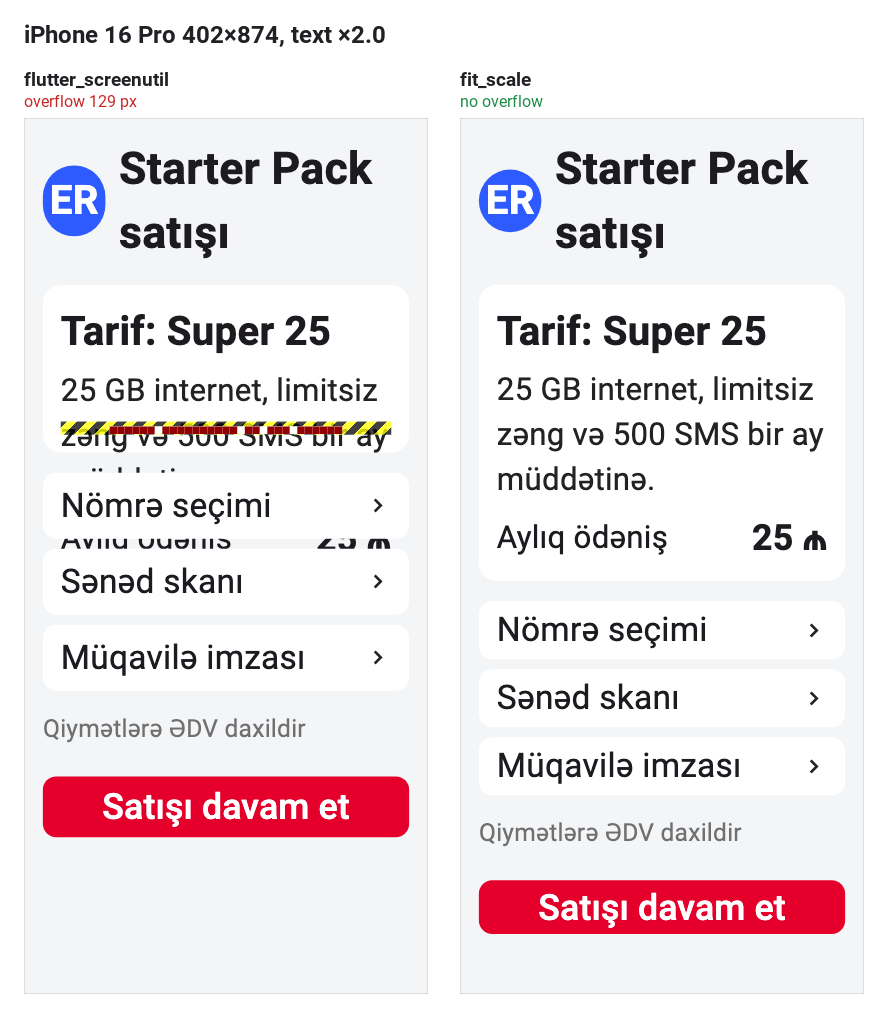
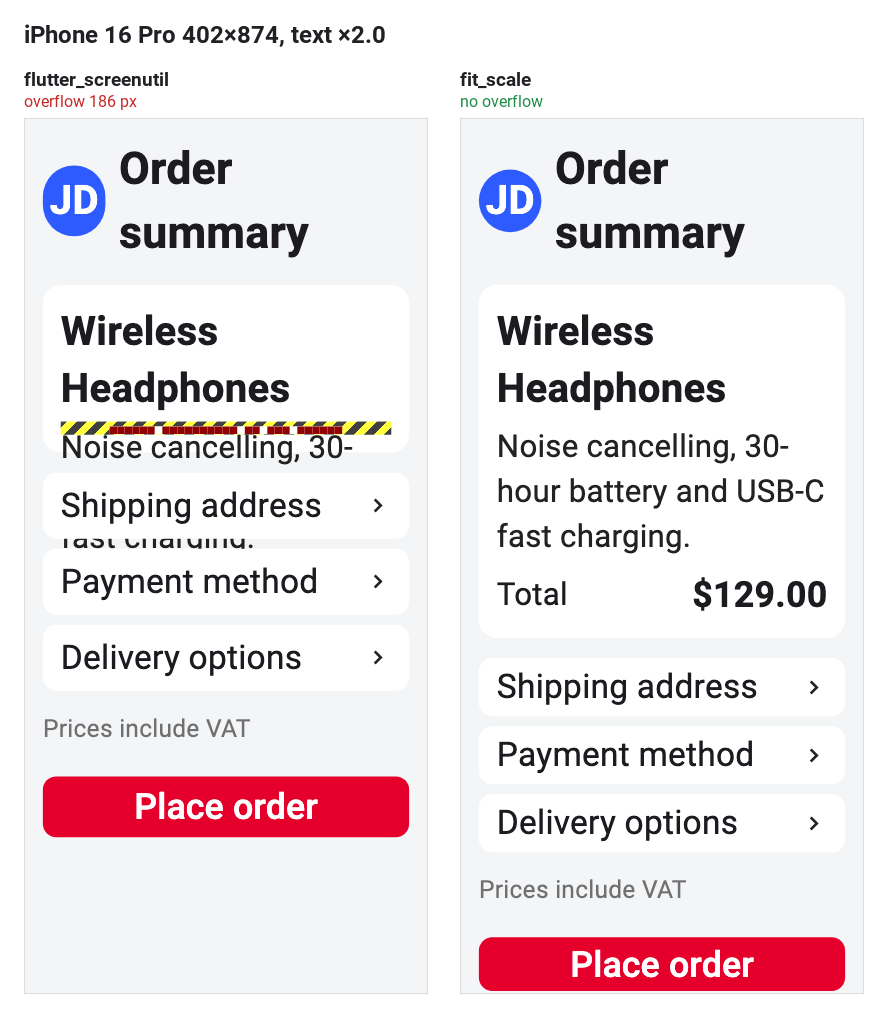
Use a generic English app in screenshots and tests
Screenshots now show an order summary screen instead of the sales one.
Re-measured: still 24 of 24 linear cases fail and 0 of 24 fit_scale
cases; text x2.0 overflows grew to 167-204 px on phones.

diff --git a/test/support/screens.dart b/test/support/screens.dart
@@ -1,7 +1,7 @@
 import 'package:fit_scale/fit_scale.dart';
 import 'package:flutter/material.dart';
 
-/// The demo sales screen, written with fit_scale.
+/// The demo order screen, written with fit_scale.
 class GoodScreen extends StatelessWidget {
   const GoodScreen({super.key});
 
@@ -24,7 +24,7 @@ class GoodScreen extends StatelessWidget {
                       shape: BoxShape.circle,
                     ),
                     child: Center(
-                      child: Text('ER',
+                      child: Text('JD',
                           style: TextStyle(
                               fontSize: fit.sp(18), color: Colors.white)),
                     ),
@@ -32,7 +32,7 @@ class GoodScreen extends StatelessWidget {
                 ),
                 SizedBox(width: fit.w(12)),
                 Expanded(
-                  child: Text('Starter Pack satışı',
+                  child: Text('Order summary',
                       style: TextStyle(
                           fontSize: fit.sp(20), fontWeight: FontWeight.w700)),
                 ),
@@ -50,14 +50,14 @@ class GoodScreen extends StatelessWidget {
                     child: Column(
                       crossAxisAlignment: CrossAxisAlignment.start,
                       children: [
-                        Text('Tarif: Super 25',
+                        Text('Wireless Headphones',
                             style: TextStyle(
                                 fontSize: fit.sp(18),
                                 fontWeight: FontWeight.w700)),
                         SizedBox(height: fit.h(6)),
                         Text(
-                          '25 GB internet, limitsiz zəng və 500 SMS bir ay '
-                          'müddətinə.',
+                          'Noise cancelling, 30-hour battery and USB-C '
+                          'fast charging.',
                           style: TextStyle(fontSize: fit.sp(14)),
                         ),
                       ],
@@ -66,7 +66,7 @@ class GoodScreen extends StatelessWidget {
                 ),
               ),
               SizedBox(height: fit.h(16)),
-              for (final label in const ['Nömrə seçimi', 'Sənəd skanı'])
+              for (final label in const ['Shipping address', 'Payment method'])
                 Padding(
                   padding: EdgeInsets.only(bottom: fit.h(8)),
                   child: Material(
@@ -89,7 +89,7 @@ class GoodScreen extends StatelessWidget {
                     ),
                   ),
                 ),
-              Text('Qiymətlərə ƏDV daxildir',
+              Text('Prices include VAT',
                   style: TextStyle(fontSize: fit.sp(11))),
               SizedBox(height: fit.h(24)),
               FitBox(
@@ -97,7 +97,7 @@ class GoodScreen extends StatelessWidget {
                 interactive: true,
                 child: FilledButton(
                   onPressed: () {},
-                  child: Text('Satışı davam et',
+                  child: Text('Place order',
                       style: TextStyle(fontSize: fit.sp(16))),
                 ),
               ),
@@ -122,16 +122,16 @@ class BadScreen extends StatelessWidget {
           SizedBox(
             height: 40,
             child: Column(children: const [
-              Text('Tarif: Super 25', style: TextStyle(fontSize: 18)),
-              Text('25 GB internet, limitsiz zəng və 500 SMS bir ay '
-                  'müddətinə.'),
+              Text('Wireless Headphones', style: TextStyle(fontSize: 18)),
+              Text('Noise cancelling, 30-hour battery and USB-C '
+                  'fast charging.'),
             ]),
           ),
           GestureDetector(
             onTap: () {},
             child: const SizedBox(width: 30, height: 30),
           ),
-          const Text('Qiymətlərə ƏDV daxildir', style: TextStyle(fontSize: 8)),
+          const Text('Prices include VAT', style: TextStyle(fontSize: 8)),
         ],
       ),
     );

diff --git a/README.md b/README.md
@@ -15,7 +15,7 @@ screen designed at 360×690:
 |---|---|
 | iPhone SE 320×568, default text | overflowed by 4.9 px, button 39.5 px tall, 11 sp caption drawn at 9.8 px |
 | Galaxy Fold cover 280×653 | caption 8.6 px, 56×56 avatar became 44×53 |
-| Any phone, system text ×2.0 | fixed `.h` heights overflowed by 121–141 px |
+| Any phone, system text ×2.0 | fixed `.h` heights overflowed by 167–204 px |
 | iPad mini | overflowed by 34 px at default text, avatar 116×92 |
 | Phone landscape 874×402 | button 28 px, overflow 164 px, avatar ratio 4.2 |
 
@@ -145,7 +145,7 @@ every problem found:
 android_compact 360x640, text x1.3: 3 problem(s)
   - [overflow] A RenderFlex overflowed by 45 pixels on the bottom.
   - [tapTargets] SemanticsNode#6(Rect.fromLTRB(165.0, 40.0, 195.0, 70.0), actions: [tap]): expected tap target size of at least Size(48.0, 48.0), but found Size(30.0, 30.0)
-  - [minFont] "Qiymətlərə ƏDV daxildir" renders at 10.4 px, below 11.0
+  - [minFont] "Prices include VAT" renders at 10.4 px, below 11.0
 ```
 
 Options: `devices` (`FitDevices.small`, `.phones`, `.all` or your own

diff --git a/CHANGELOG.md b/CHANGELOG.md
@@ -4,6 +4,7 @@
   the real package (0 of 24 device and text-size cases fail), and a note on
   the Flutter 3.47 Material split.
 * pubspec: screenshots for pub.dev.
+* Test screens and README samples use a generic English order screen.
 * CI on Flutter 3.24.5 and stable; `flutter_lints` lowered to ^5.0.0 so the
   package resolves on its minimum Flutter version.
 
